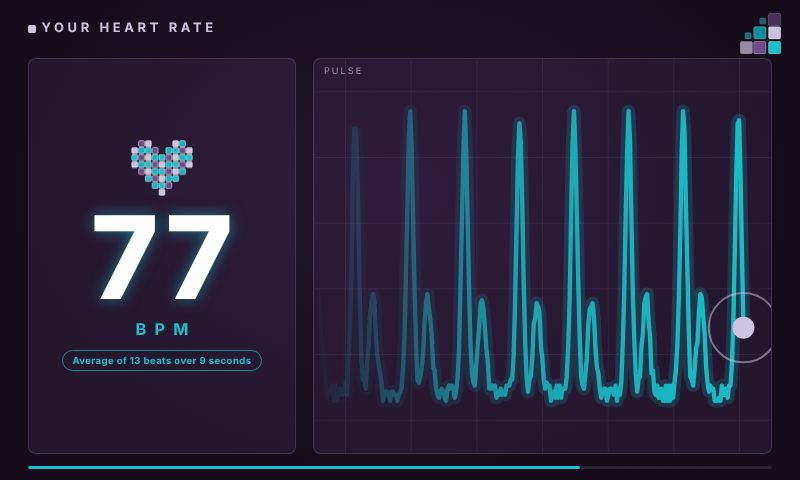
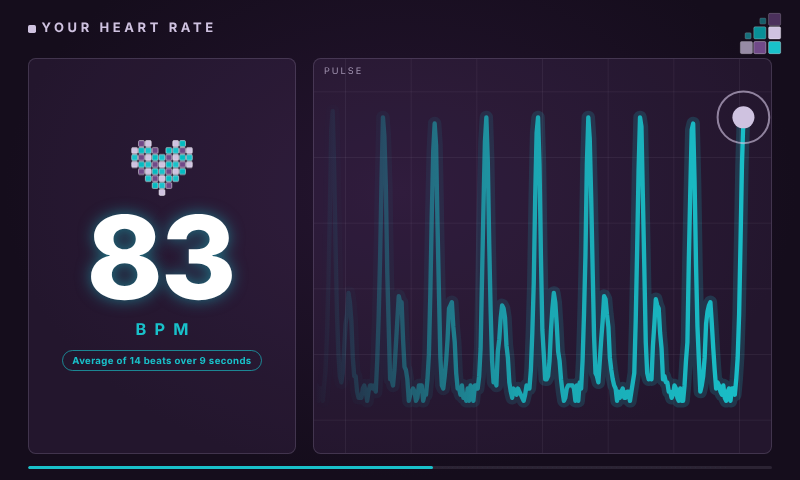
Remove the summary screen: the average heart rate is the final screen
After the 10 second result ("NN BPM - Average of N beats over S seconds") the screen now goes
straight back to "Press screen to start". Nothing else changes: the firmware, the server, the
measurement and the other screens are as before.

Removes the summary section from the page, its styles, its drawing code, the `summary`
timing option and the summary preview image; the README is updated to match.

Claude-Session: https://claude.ai/code/session_01DPLfCiUWz7C2cMpaJPKLG2

diff --git a/heart-rate-monitor/pi/web/app.js b/heart-rate-monitor/pi/web/app.js
@@ -5,12 +5,11 @@
  *   2. MEASURE  After a press the sensor is live. Waits for the first beat, then records every beat for 10 seconds
  *               (heart beats with each real beat, pulse graph, countdown).
  *   3. RESULT   The average heart rate, shown for 10 seconds.
- *   4. SUMMARY  Average, lowest, highest, time and a chart of the heart rate at each beat, shown for 5 seconds.
- *   5. back to IDLE.
+ *   4. back to IDLE.
  * If no pulse was found the screen says so for a few seconds, then returns to IDLE.
  *
  * Add ?debug to the URL for an on-screen readout. For testing, the timings can be shortened with
- * ?measure=4&result=3&summary=2&wait=6&failed=2 (seconds).
+ * ?measure=4&result=3&wait=6&failed=2 (seconds).
  */
 (() => {
   'use strict';
@@ -27,7 +26,6 @@
   // ---- settings you might want to tweak -----------------------------------------
   const MEASURE_MS   = secs('measure', 10);  // how long every beat is recorded once the first beat arrives
   const RESULT_MS    = secs('result', 10);   // how long the average is shown
-  const SUMMARY_MS   = secs('summary', 5);   // how long the summary is shown
   const WAIT_MS      = secs('wait', 20);     // how long to wait for a finger after the screen is pressed
   const FAILED_MS    = secs('failed', 5);    // how long "No pulse found" stays up
   const NO_BEAT_HINT_MS = 3000;              // no beat for this long while measuring -> "keep your finger on the sensor"
@@ -39,15 +37,15 @@
 
   // ---- state ---------------------------------------------------------------
   const S = {
-    mode: 'idle', modeAt: 0,                 // idle | waiting | measure | result | summary | failed
+    mode: 'idle', modeAt: 0,                 // idle | waiting | measure | result | failed
     wave: [], yMin: 480, yMax: 540,
     lastBm: null,                            // the Arduino's beat clock at the last beat we saw
     beats: [], t0: 0, dataT: 0, lastDataAt: 0, beatAt: -99999,
-    res: null, summary: null,
+    res: null,
     connected: false, receiving: false, simulated: false, wrong: false, oldFw: false,
     version: '', reloadPending: false, msgs: 0,
   };
-  const SCREEN = { idle: 'standby', failed: 'standby', waiting: 'measure', measure: 'measure', result: 'result', summary: 'summary' };
+  const SCREEN = { idle: 'standby', failed: 'standby', waiting: 'measure', measure: 'measure', result: 'result' };
 
   // ---- data stream ---------------------------------------------------------
   function connect() {
@@ -110,11 +108,6 @@
     const spanS = Math.round(r.spanMs / 1000);
     $('bpm-num').textContent = Math.round(r.avg);
     $('basis').textContent = `Average of ${r.beats} beats over ${spanS} seconds`;
-    S.summary = { samples: r.rates, min: r.min, max: r.max, avg: r.avg, secs: spanS };
-    $('sum-avg').textContent = Math.round(r.avg);
-    $('sum-min').textContent = Math.round(r.min);
-    $('sum-max').textContent = Math.round(r.max);
-    $('sum-time').textContent = spanS < 60 ? `${spanS} s` : `${Math.floor(spanS / 60)}:${String(spanS % 60).padStart(2, '0')}`;
     setMode('result', now);
   }
 
@@ -123,7 +116,7 @@
   function setMode(mode, now) {
     S.mode = mode; S.modeAt = now;
     const screen = SCREEN[mode];
-    for (const id of ['standby', 'measure', 'result', 'summary']) $(id).classList.toggle('on', id === screen);
+    for (const id of ['standby', 'measure', 'result']) $(id).classList.toggle('on', id === screen);
     $('measure').classList.toggle('waiting', mode === 'waiting');
     if (mode === 'idle' || mode === 'failed') setStandbyText(mode);
   }
@@ -367,60 +360,6 @@
     bar('r-bar', 1 - (now - S.modeAt) / RESULT_MS);
   }
 
-  // ---- SUMMARY screen ------------------------------------------------------------
-  const cvSum = $('cv-sum'), cvSumHeart = $('cv-sum-heart');
-
-  function drawSummary(now) {
-    const sm = S.summary;
-    if (!sm) return;
-    drawHeartOn(cvSumHeart, 1);
-    bar('sum-bar', 1 - (now - S.modeAt) / SUMMARY_MS);
-
-    const [ctx, w, h] = fit(cvSum);
-    ctx.clearRect(0, 0, w, h);
-    const cell = h / 6;
-    ctx.strokeStyle = 'rgba(207,194,224,0.07)'; ctx.lineWidth = 1; ctx.beginPath();
-    for (let x = (w % cell) / 2; x < w; x += cell) { ctx.moveTo(x, 0); ctx.lineTo(x, h); }
-    for (let y = cell / 2; y < h; y += cell)       { ctx.moveTo(0, y); ctx.lineTo(w, y); }
-    ctx.stroke();
-
-    const n = sm.samples.length;
-    const span = Math.max(sm.max - sm.min, 16), mid = (sm.max + sm.min) / 2;
-    const y0 = mid - span * 0.8, y1 = mid + span * 0.8;
-    const padL = w * 0.06, padR = w * 0.06, padT = h * 0.14, padB = h * 0.1;
-    const X = i => n === 1 ? w / 2 : padL + i / (n - 1) * (w - padL - padR);
-    const Y = v => h - padB - (v - y0) / (y1 - y0) * (h - padT - padB);
-    const reveal = clamp((now - S.modeAt) / 900, 0, 1);          // the line draws itself in
-
-    // average line
-    ctx.setLineDash([h * 0.03, h * 0.03]); ctx.strokeStyle = 'rgba(207,194,224,0.45)'; ctx.lineWidth = 1.5;
-    ctx.beginPath(); ctx.moveTo(padL * 0.5, Y(sm.avg)); ctx.lineTo(w - padR * 0.5, Y(sm.avg)); ctx.stroke();
-    ctx.setLineDash([]);
-
-    // the heart rate at each beat
-    ctx.lineJoin = 'round'; ctx.lineCap = 'round';
-    if (n > 1) {
-      const upto = reveal * (n - 1);
-      ctx.beginPath(); ctx.moveTo(X(0), Y(sm.samples[0]));
-      for (let i = 1; i <= Math.floor(upto); i++) ctx.lineTo(X(i), Y(sm.samples[i]));
-      const f = upto - Math.floor(upto), j = Math.floor(upto);
-      if (j < n - 1 && f > 0) ctx.lineTo(X(j) + (X(j + 1) - X(j)) * f, Y(sm.samples[j]) + (Y(sm.samples[j + 1]) - Y(sm.samples[j])) * f);
-      ctx.strokeStyle = 'rgba(25,193,202,0.2)'; ctx.lineWidth = h * 0.034; ctx.stroke();
-      ctx.strokeStyle = TEAL; ctx.lineWidth = Math.max(2.5, h * 0.011); ctx.stroke();
-    }
-    // pixel markers on each beat; lowest = purple, highest = lavender
-    const sz = h * 0.05;
-    sm.samples.forEach((v, i) => {
-      if (n > 1 && i > reveal * (n - 1) + 0.001) return;
-      const isMin = v === sm.min, isMax = v === sm.max;
-      const big = (isMin || isMax) && sm.max !== sm.min;
-      const s2 = big ? sz * 1.5 : sz;
-      ctx.fillStyle = big ? (isMax ? LAV : PURPLE) : TEAL2;
-      ctx.strokeStyle = 'rgba(255,255,255,0.6)'; ctx.lineWidth = 1;
-      rr(ctx, X(i) - s2 / 2, Y(v) - s2 / 2, s2, s2, s2 * 0.2); ctx.fill(); ctx.stroke();
-    });
-  }
-
   // ---- status chip + debug -----------------------------------------------------------
   function updateChip() {
     const chip = $('chip');
@@ -445,16 +384,14 @@
     // timers
     if (S.mode === 'waiting' && age > WAIT_MS) fail(now);                       // nobody put a finger on
     else if ((S.mode === 'waiting' || S.mode === 'measure') && now - Math.max(S.lastDataAt, S.modeAt) > NO_DATA_MS) fail(now);   // Arduino went quiet
-    else if (S.mode === 'result' && age >= RESULT_MS) setMode('summary', now);
-    else if (S.mode === 'summary' && age >= SUMMARY_MS) setMode('idle', now);
+    else if (S.mode === 'result' && age >= RESULT_MS) setMode('idle', now);
     else if (S.mode === 'failed' && age >= FAILED_MS) setMode('idle', now);
     if (S.reloadPending && S.mode === 'idle' && age > 2000) location.reload();   // pick up an update while idle
 
     const fading = now - S.modeAt < 800;
     if (SCREEN[S.mode] === 'standby' || fading) drawStandby(now / 1000);
     if (SCREEN[S.mode] === 'measure' || (fading && S.mode !== 'idle')) drawMeasure(now);
-    if (S.res && (S.mode === 'result' || (fading && S.mode === 'summary'))) drawResult(now);
-    if (S.mode === 'summary' || (fading && S.mode === 'idle' && S.summary)) drawSummary(now);
+    if (S.res && (S.mode === 'result' || (fading && S.mode === 'idle'))) drawResult(now);
     updateChip();
 
     frames++;

diff --git a/heart-rate-monitor/pi/web/style.css b/heart-rate-monitor/pi/web/style.css
@@ -101,17 +101,17 @@ canvas { display: block; }
   color: var(--lav); opacity: .7;
 }
 
-#bpm-panel, #sum-avg-panel, #m-panel {
+#bpm-panel, #m-panel {
   display: flex; flex-direction: column; align-items: center; justify-content: center;
 }
-#bpm-panel canvas, #sum-avg-panel canvas, #m-panel canvas { position: static; width: 13vh; height: 11.5vh; margin-bottom: 1vh; }
-#bpm-num, #sum-avg, #m-count {
+#bpm-panel canvas, #m-panel canvas { position: static; width: 13vh; height: 11.5vh; margin-bottom: 1vh; }
+#bpm-num, #m-count {
   font-size: 24vh; font-weight: 800; line-height: 1;
   font-variant-numeric: tabular-nums;
   color: #fff;
   text-shadow: 0 0 3vh rgba(25, 193, 202, .55);
 }
-#bpm-unit, #sum-avg-unit, #m-unit {
+#bpm-unit, #m-unit {
   margin-top: .6vh;
   font-size: 3.4vh; font-weight: 700; letter-spacing: .5em; text-indent: .5em;
   color: var(--teal);
@@ -127,29 +127,8 @@ canvas { display: block; }
 #measure.waiting #m-count, #measure.waiting #m-unit, #measure.waiting #m-beats { display: none; }
 #measure.waiting #m-wait { display: block; }
 
-/* ---- summary ---- */
-#summary {
-  padding: 12vh 3.5vw 5.5vh;
-  display: grid;
-  grid-template-columns: 36% 1fr;
-  grid-template-rows: 1fr auto;
-  gap: 2.2vh 2.2vw;
-}
+/* ---- shared by the measure and result screens ---- */
 .eyebrow.static::before { animation: none; background: var(--lav); }
-#sum-avg-panel { grid-row: 1 / 3; }
-#sum-avg-unit { text-transform: uppercase; }
-#sum-stats { display: grid; grid-template-columns: repeat(3, 1fr); gap: 2.2vw; }
-.stat {
-  display: flex; flex-direction: column; gap: .8vh;
-  padding: 1.8vh 1.2vw;
-  background: rgba(112, 73, 136, .16);
-  border: 1px solid rgba(207, 194, 224, .18);
-  border-radius: 1.6vh;
-}
-.stat-label { font-size: 1.9vh; letter-spacing: .22em; text-transform: uppercase; color: var(--lav); opacity: .7; }
-.stat-value { font-size: 5.6vh; font-weight: 800; line-height: 1; font-variant-numeric: tabular-nums; }
-.stat-value b { font-weight: 800; }
-.stat-value i { font-style: normal; font-size: 2.4vh; font-weight: 700; margin-left: .8vw; color: var(--teal); letter-spacing: .15em; }
 .timer {
   position: absolute; left: 3.5vw; right: 3.5vw; bottom: 2.2vh; height: .8vh;
   background: rgba(207, 194, 224, .12); border-radius: 1vh; overflow: hidden;

diff --git a/heart-rate-monitor/pi/web/index.html b/heart-rate-monitor/pi/web/index.html
@@ -38,7 +38,7 @@
       <div class="timer"><div id="m-bar" class="bar"></div></div>
     </section>
 
-    <!-- RESULT: the average heart rate, shown for 10 seconds -->
+    <!-- RESULT: the average heart rate, shown for 10 seconds. This is the last screen. -->
     <section id="result" class="screen">
       <div class="eyebrow static">Your heart rate</div>
 
@@ -55,30 +55,6 @@
       </div>
 
       <div class="timer"><div id="r-bar" class="bar"></div></div>
-    </section>
-
-    <!-- SUMMARY: shown for 5 seconds after the result -->
-    <section id="summary" class="screen">
-      <div class="eyebrow static">Your results</div>
-
-      <div id="sum-avg-panel" class="panel">
-        <canvas id="cv-sum-heart"></canvas>
-        <div id="sum-avg">--</div>
-        <div id="sum-avg-unit">Average BPM</div>
-      </div>
-
-      <div id="sum-chart-panel" class="panel">
-        <span class="panel-label">Heart rate at each beat</span>
-        <canvas id="cv-sum"></canvas>
-      </div>
-
-      <div id="sum-stats">
-        <div class="stat"><span class="stat-label">Lowest</span><span class="stat-value"><b id="sum-min">--</b><i>BPM</i></span></div>
-        <div class="stat"><span class="stat-label">Highest</span><span class="stat-value"><b id="sum-max">--</b><i>BPM</i></span></div>
-        <div class="stat"><span class="stat-label">Time</span><span class="stat-value"><b id="sum-time">--</b></span></div>
-      </div>
-
-      <div class="timer"><div id="sum-bar" class="bar"></div></div>
     </section>
 
     <!-- BNTS branding, shared by all screens.  Drop a logo.svg next to this file to show it top-left. -->

diff --git a/heart-rate-monitor/README.md b/heart-rate-monitor/README.md
@@ -6,10 +6,8 @@ press-to-start heart rate check in the BNTS colours:
 1. **Press screen to start** - a beating pixel heart waits to be pressed.
 2. **Measuring** - after the press the sensor is live. The screen asks for a finger, and when the first beat arrives it
    records **every beat for 10 seconds**: the heart beats with each real beat, the pulse graph scrolls, and a countdown runs.
-3. **Your heart rate** - the **average** heart rate, shown for **10 seconds**.
-4. **Your results** - the summary, shown for **5 seconds**: average, lowest and highest BPM, the time measured, and a chart of
-   the heart rate at each beat.
-5. Back to **Press screen to start**.
+3. **Your heart rate** - the **average** heart rate with *"Average of N beats over S seconds"*, shown for **10 seconds**.
+4. Back to **Press screen to start**.
 
 If no pulse is found (no finger, or fewer than 3 beats), the screen says *"No pulse found"* for 5 seconds and starts over.
 
@@ -32,8 +30,6 @@ The Pi then records the beat times for 10 seconds from the first beat and works 
 - It has none of the "plus or minus one beat" error you get from counting beats in a fixed window (counting in 10 seconds
   can be out by 6 BPM).
 - It uses the Arduino's clock, so delays on the USB cable or in the browser cannot affect it.
-- Lowest and highest are simply the slowest and fastest gap between two beats, unaltered. A healthy heart does not beat
-  evenly (it speeds up and slows down as you breathe), so these are normally a few BPM either side of the average.
 
 Tested (`tests/`): each pulse is exactly one beat at every rate from 40 to 200 BPM; the gaps between reported beat times match
 the real gaps to under a millisecond; the average is exact wherever in a heartbeat the window starts; and the exact compiled
@@ -204,7 +200,7 @@ Edit `/etc/default/bnts-heart`, then `sudo systemctl restart bnts-heart` (and `s
 - `BNTS_ARGS="--port /dev/ttyACM0"` - pin the serial port (default: auto-detect)
 - `ROTATE=180` - rotate the screen if it's mounted upside-down
 - `KIOSK_QUERY="?measure=15&result=8"` - change the timings (in seconds). Options: `measure` (10, how long every beat is
-  recorded), `result` (10), `summary` (5), `wait` (20, how long to wait for a finger after the press), `failed` (5)
+  recorded), `result` (10), `wait` (20, how long to wait for a finger after the press), `failed` (5)
 
 A longer `measure` means more beats in the average. The wording is in `pi/web/index.html`, and the look and the process are in
 `pi/web/app.js` (settings at the top) and `pi/web/style.css`. To add the real BNTS logo, drop a `logo.svg` into `pi/web/`; it
@@ -305,7 +301,7 @@ The Arduino sends 50 lines per second at 115200 baud: `H,<signal>,<beat>,<beatMs
 
 `server.py` forwards each line to the page as JSON over Server-Sent Events at `/events`, adding the time it read the line. The
 page does everything else: a press starts a measurement; the first new `beatMs` starts a 10-second clock; every new `beatMs`
-is recorded; at 10 seconds `measure.js` works out the average; the page shows it for 10 seconds, then the summary for 5 seconds,
+is recorded; at 10 seconds `measure.js` works out the average; the page shows it for 10 seconds,
 then waits for the next press. (Lines in the previous firmware's format are recognised, and the screen asks for the new firmware.)
 
 *For fun only. Not a medical device.*
